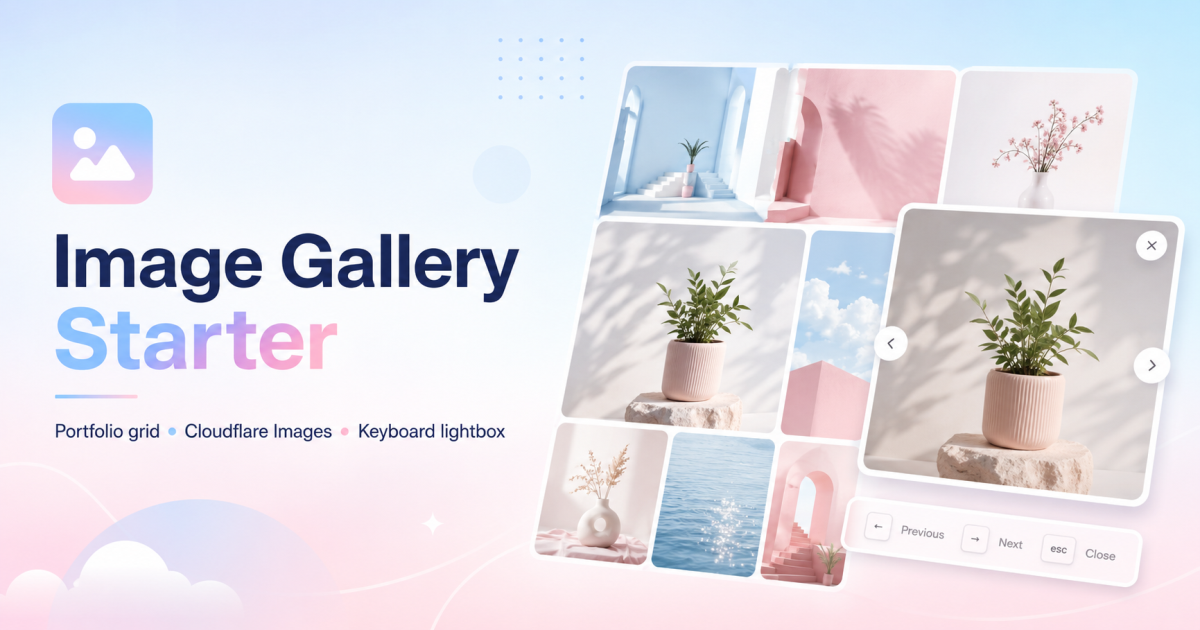
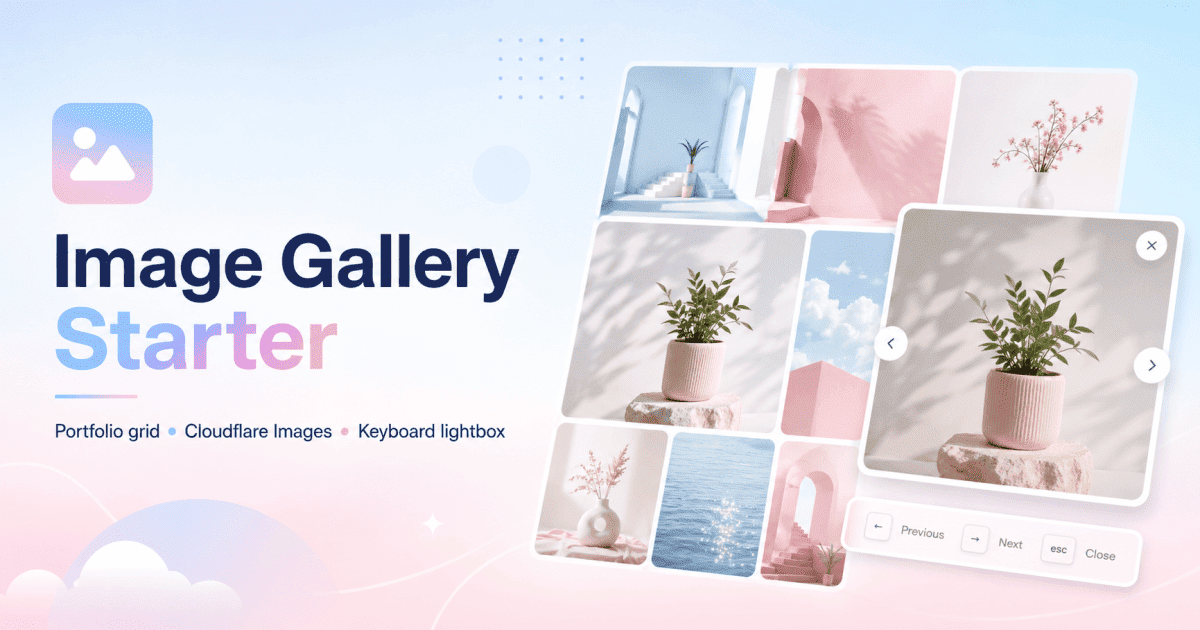
Deploy image-gallery-starter OSS: 008
Package version: v0.1.0.

Publish the standalone image-gallery-starter OSS. See CHANGELOG.md for the complete change summary.

diff --git a/app/page.tsx b/app/page.tsx
@@ -1,6 +1,6 @@
 'use client';
 
-import { useState } from 'react';
+import { useEffect, useState } from 'react';
 
 import { useGalleryTouchEvents } from '@/components/gallery/touch-event';
 import { InlineGitHub } from '@/components/icons/inline-git';
@@ -31,6 +31,7 @@ import {
   Globe2,
   Layers,
   Linkedin,
+  LoaderCircle,
   type LucideIcon,
   Mail,
   Palette,
@@ -426,6 +427,7 @@ function FeatureGalleryCard({
           alt={artwork.alt}
           className="h-full w-full object-cover"
           loading="lazy"
+          showLoader
         />
       </span>
       <span className="absolute inset-0 bg-gradient-to-b from-white/18 to-white/8 opacity-0 transition-opacity duration-300 group-hover:opacity-100 group-[.touch-active]:opacity-100" />
@@ -486,6 +488,7 @@ function GalleryGridCard({
         alt={artwork.alt}
         className="h-full w-full object-cover"
         loading="lazy"
+        showLoader
       />
       <Caption artwork={artwork} />
     </button>
@@ -531,6 +534,7 @@ function StackedSpotlights({
                   alt={artwork.alt}
                   className="h-full w-full object-cover"
                   loading="lazy"
+                  showLoader
                 />
               </button>
             ))}
@@ -570,6 +574,12 @@ function Lightbox({
   onNext: () => void;
   onPrevious: () => void;
 }) {
+  const [isImageLoaded, setIsImageLoaded] = useState(false);
+
+  useEffect(() => {
+    setIsImageLoaded(false);
+  }, [artwork.id]);
+
   return (
     <div className="grid gap-3 lg:grid-cols-[minmax(0,1fr)_18rem]">
       <Dialog.Title className="sr-only">{artwork.title}</Dialog.Title>
@@ -578,6 +588,8 @@ function Lightbox({
           src={imageUrl(artwork)}
           alt={artwork.alt}
           className="max-h-[78vh] w-full object-contain"
+          onLoadedChange={setIsImageLoaded}
+          showLoader
         />
         {canNavigate ? (
           <>
@@ -601,30 +613,39 @@ function Lightbox({
         ) : null}
       </div>
       <aside className="rounded-[1.25rem] bg-gradient-to-br from-white to-[#f8f1ff] p-5">
-        <div className="mb-5 flex items-start justify-between gap-3">
-          <div>
-            <p className="text-xs font-black tracking-[0.22em] text-[#9aa0c4] uppercase">
-              {artwork.collection}
-            </p>
-            <p className="mt-2 text-3xl font-black tracking-[-0.04em] text-[#131947]">
-              {artwork.title}
-            </p>
+        {isImageLoaded ? (
+          <>
+            <div className="mb-5 flex items-start justify-between gap-3">
+              <div>
+                <p className="text-xs font-black tracking-[0.22em] text-[#9aa0c4] uppercase">
+                  {artwork.collection}
+                </p>
+                <p className="mt-2 text-3xl font-black tracking-[-0.04em] text-[#131947]">
+                  {artwork.title}
+                </p>
+              </div>
+              <Dialog.Close
+                className="flex size-10 shrink-0 items-center justify-center rounded-full bg-white text-xl font-black text-[#68739b] shadow-sm transition hover:text-[#131947]"
+                aria-label="Close lightbox"
+              >
+                x
+              </Dialog.Close>
+            </div>
+            <div className="space-y-3 text-sm text-[#68739b]">
+              <InfoBox label="Prompt" value={artwork.prompt} />
+              <InfoBox label="Model" value={artwork.model} />
+              <InfoBox
+                label="Size"
+                value={`${artwork.width} x ${artwork.height}`}
+              />
+            </div>
+          </>
+        ) : (
+          <div className="flex min-h-[18rem] items-center justify-center text-[#6f7bae]">
+            <LoaderCircle className="size-6 animate-spin" aria-hidden="true" />
+            <span className="sr-only">Loading image metadata</span>
           </div>
-          <Dialog.Close
-            className="flex size-10 shrink-0 items-center justify-center rounded-full bg-white text-xl font-black text-[#68739b] shadow-sm transition hover:text-[#131947]"
-            aria-label="Close lightbox"
-          >
-            x
-          </Dialog.Close>
-        </div>
-        <div className="space-y-3 text-sm text-[#68739b]">
-          <InfoBox label="Prompt" value={artwork.prompt} />
-          <InfoBox label="Model" value={artwork.model} />
-          <InfoBox
-            label="Size"
-            value={`${artwork.width} x ${artwork.height}`}
-          />
-        </div>
+        )}
       </aside>
     </div>
   );
@@ -758,7 +779,7 @@ function FooterPanel() {
 function SimpleIcon({ icon }: { icon: SimpleIconDefinition }) {
   return (
     <svg
-      className="size-4 sm:size-5"
+      className="size-3.5 sm:size-4"
       viewBox="0 0 24 24"
       fill="currentColor"
       aria-hidden="true"
@@ -775,14 +796,14 @@ function FooterLink({ item }: { item: (typeof creatorSocialLinks)[number] }) {
   return (
     <a
       href={item.href}
-      className="inline-flex size-9 items-center justify-center rounded-full bg-[#f0e8ff] text-[#35406f] shadow-sm transition hover:-translate-y-0.5 hover:bg-[#eadfff] sm:size-11"
+      className="inline-flex size-8 shrink-0 items-center justify-center rounded-full bg-[#f0e8ff] text-[#35406f] shadow-sm transition hover:-translate-y-0.5 hover:bg-[#eadfff] sm:size-10"
       aria-label={item.label}
       title={item.label}
     >
       {item.icon ? (
         <SimpleIcon icon={item.icon} />
       ) : Icon ? (
-        <Icon className="size-4 sm:size-5" aria-hidden="true" />
+        <Icon className="size-3.5 sm:size-4" aria-hidden="true" />
       ) : null}
     </a>
   );

diff --git a/components/protected-image.tsx b/components/protected-image.tsx
@@ -1,20 +1,46 @@
 'use client';
 
+import { LoaderCircle } from 'lucide-react';
 import type {
   DragEventHandler,
   ImgHTMLAttributes,
   MouseEventHandler,
 } from 'react';
+import { useEffect, useRef, useState } from 'react';
 
-type ProtectedImageProps = ImgHTMLAttributes<HTMLImageElement>;
+type ProtectedImageProps = ImgHTMLAttributes<HTMLImageElement> & {
+  onLoadedChange?: (isLoaded: boolean) => void;
+  showLoader?: boolean;
+};
 
 export function ProtectedImage({
   className,
   draggable = false,
+  onLoadedChange,
+  showLoader = false,
   onContextMenu,
   onDragStart,
+  onError,
+  onLoad,
+  src,
   ...props
 }: ProtectedImageProps) {
+  const imageRef = useRef<HTMLImageElement>(null);
+  const onLoadedChangeRef = useRef(onLoadedChange);
+  const [isLoaded, setIsLoaded] = useState(false);
+
+  useEffect(() => {
+    onLoadedChangeRef.current = onLoadedChange;
+  }, [onLoadedChange]);
+
+  useEffect(() => {
+    const image = imageRef.current;
+    const nextIsLoaded = Boolean(image?.complete && image.naturalWidth > 0);
+
+    setIsLoaded(nextIsLoaded);
+    onLoadedChangeRef.current?.(nextIsLoaded);
+  }, [src]);
+
   const handleContextMenu: MouseEventHandler<HTMLImageElement> = (event) => {
     event.preventDefault();
     onContextMenu?.(event);
@@ -25,13 +51,41 @@ export function ProtectedImage({
     onDragStart?.(event);
   };
 
-  return (
+  const image = (
     <img
       {...props}
-      className={className ? `select-none ${className}` : 'select-none'}
+      ref={imageRef}
+      src={src}
+      className={
+        className
+          ? `select-none ${className}${showLoader && !isLoaded ? ' opacity-0' : ''}`
+          : `select-none${showLoader && !isLoaded ? ' opacity-0' : ''}`
+      }
       draggable={draggable}
       onContextMenu={handleContextMenu}
       onDragStart={handleDragStart}
+      onError={onError}
+      onLoad={(event) => {
+        setIsLoaded(true);
+        onLoadedChange?.(true);
+        onLoad?.(event);
+      }}
     />
+  );
+
+  if (!showLoader) {
+    return image;
+  }
+
+  return (
+    <span className="relative block h-full w-full">
+      {isLoaded ? null : (
+        <span className="absolute inset-0 z-20 flex items-center justify-center bg-[#f8f4ff]/86 text-[#6f7bae] backdrop-blur-sm">
+          <LoaderCircle className="size-6 animate-spin" aria-hidden="true" />
+          <span className="sr-only">Loading image</span>
+        </span>
+      )}
+      {image}
+    </span>
   );
 }

diff --git a/README.md b/README.md
@@ -43,10 +43,10 @@ Image gallery for generative media artworks.
 <strong>One-click deploy</strong>
 
 [![Deploy to Cloudflare](https://deploy.workers.cloudflare.com/button)](https://deploy.workers.cloudflare.com/?url=https://github.com/babysea-community/image-gallery-starter)
-[![Deploy to DO](https://www.deploytodo.com/do-btn-blue.svg)](https://cloud.digitalocean.com/apps/new?repo=https://github.com/babysea-community/image-gallery-starter/tree/main)
-[![Deploy to Netlify](https://www.netlify.com/img/deploy/button.svg)](https://app.netlify.com/start/deploy?repository=https://github.com/babysea-community/image-gallery-starter)  
-[![Deploy on Railway](https://railway.com/button.svg)](https://railway.com/new/template?template=https://github.com/babysea-community/image-gallery-starter)
-[![Deploy to Render](https://render.com/images/deploy-to-render-button.svg)](https://render.com/deploy?repo=https://github.com/babysea-community/image-gallery-starter)  
+[![Deploy to DO](https://www.deploytodo.com/do-btn-blue.svg)](https://cloud.digitalocean.com/apps/new?repo=https://github.com/babysea-community/image-gallery-starter/tree/main)  
+[![Deploy to Netlify](https://www.netlify.com/img/deploy/button.svg)](https://app.netlify.com/start/deploy?repository=https://github.com/babysea-community/image-gallery-starter)
+[![Deploy on Railway](https://railway.com/button.svg)](https://railway.com/new/template?template=https://github.com/babysea-community/image-gallery-starter)  
+[![Deploy to Render](https://render.com/images/deploy-to-render-button.svg)](https://render.com/deploy?repo=https://github.com/babysea-community/image-gallery-starter)
 [![Deploy with Vercel](https://vercel.com/button)](https://vercel.com/new/clone?repository-url=https%3A%2F%2Fgithub.com%2Fbabysea-community%2Fimage-gallery-starter&project-name=image-gallery-starter&repository-name=image-gallery-starter&env=NEXT_PUBLIC_SITE_URL,NEXT_PUBLIC_CLOUDFLARE_IMAGES_ACCOUNT_HASH,NEXT_PUBLIC_CLOUDFLARE_IMAGES_DELIVERY_ORIGIN)
 
 <br />